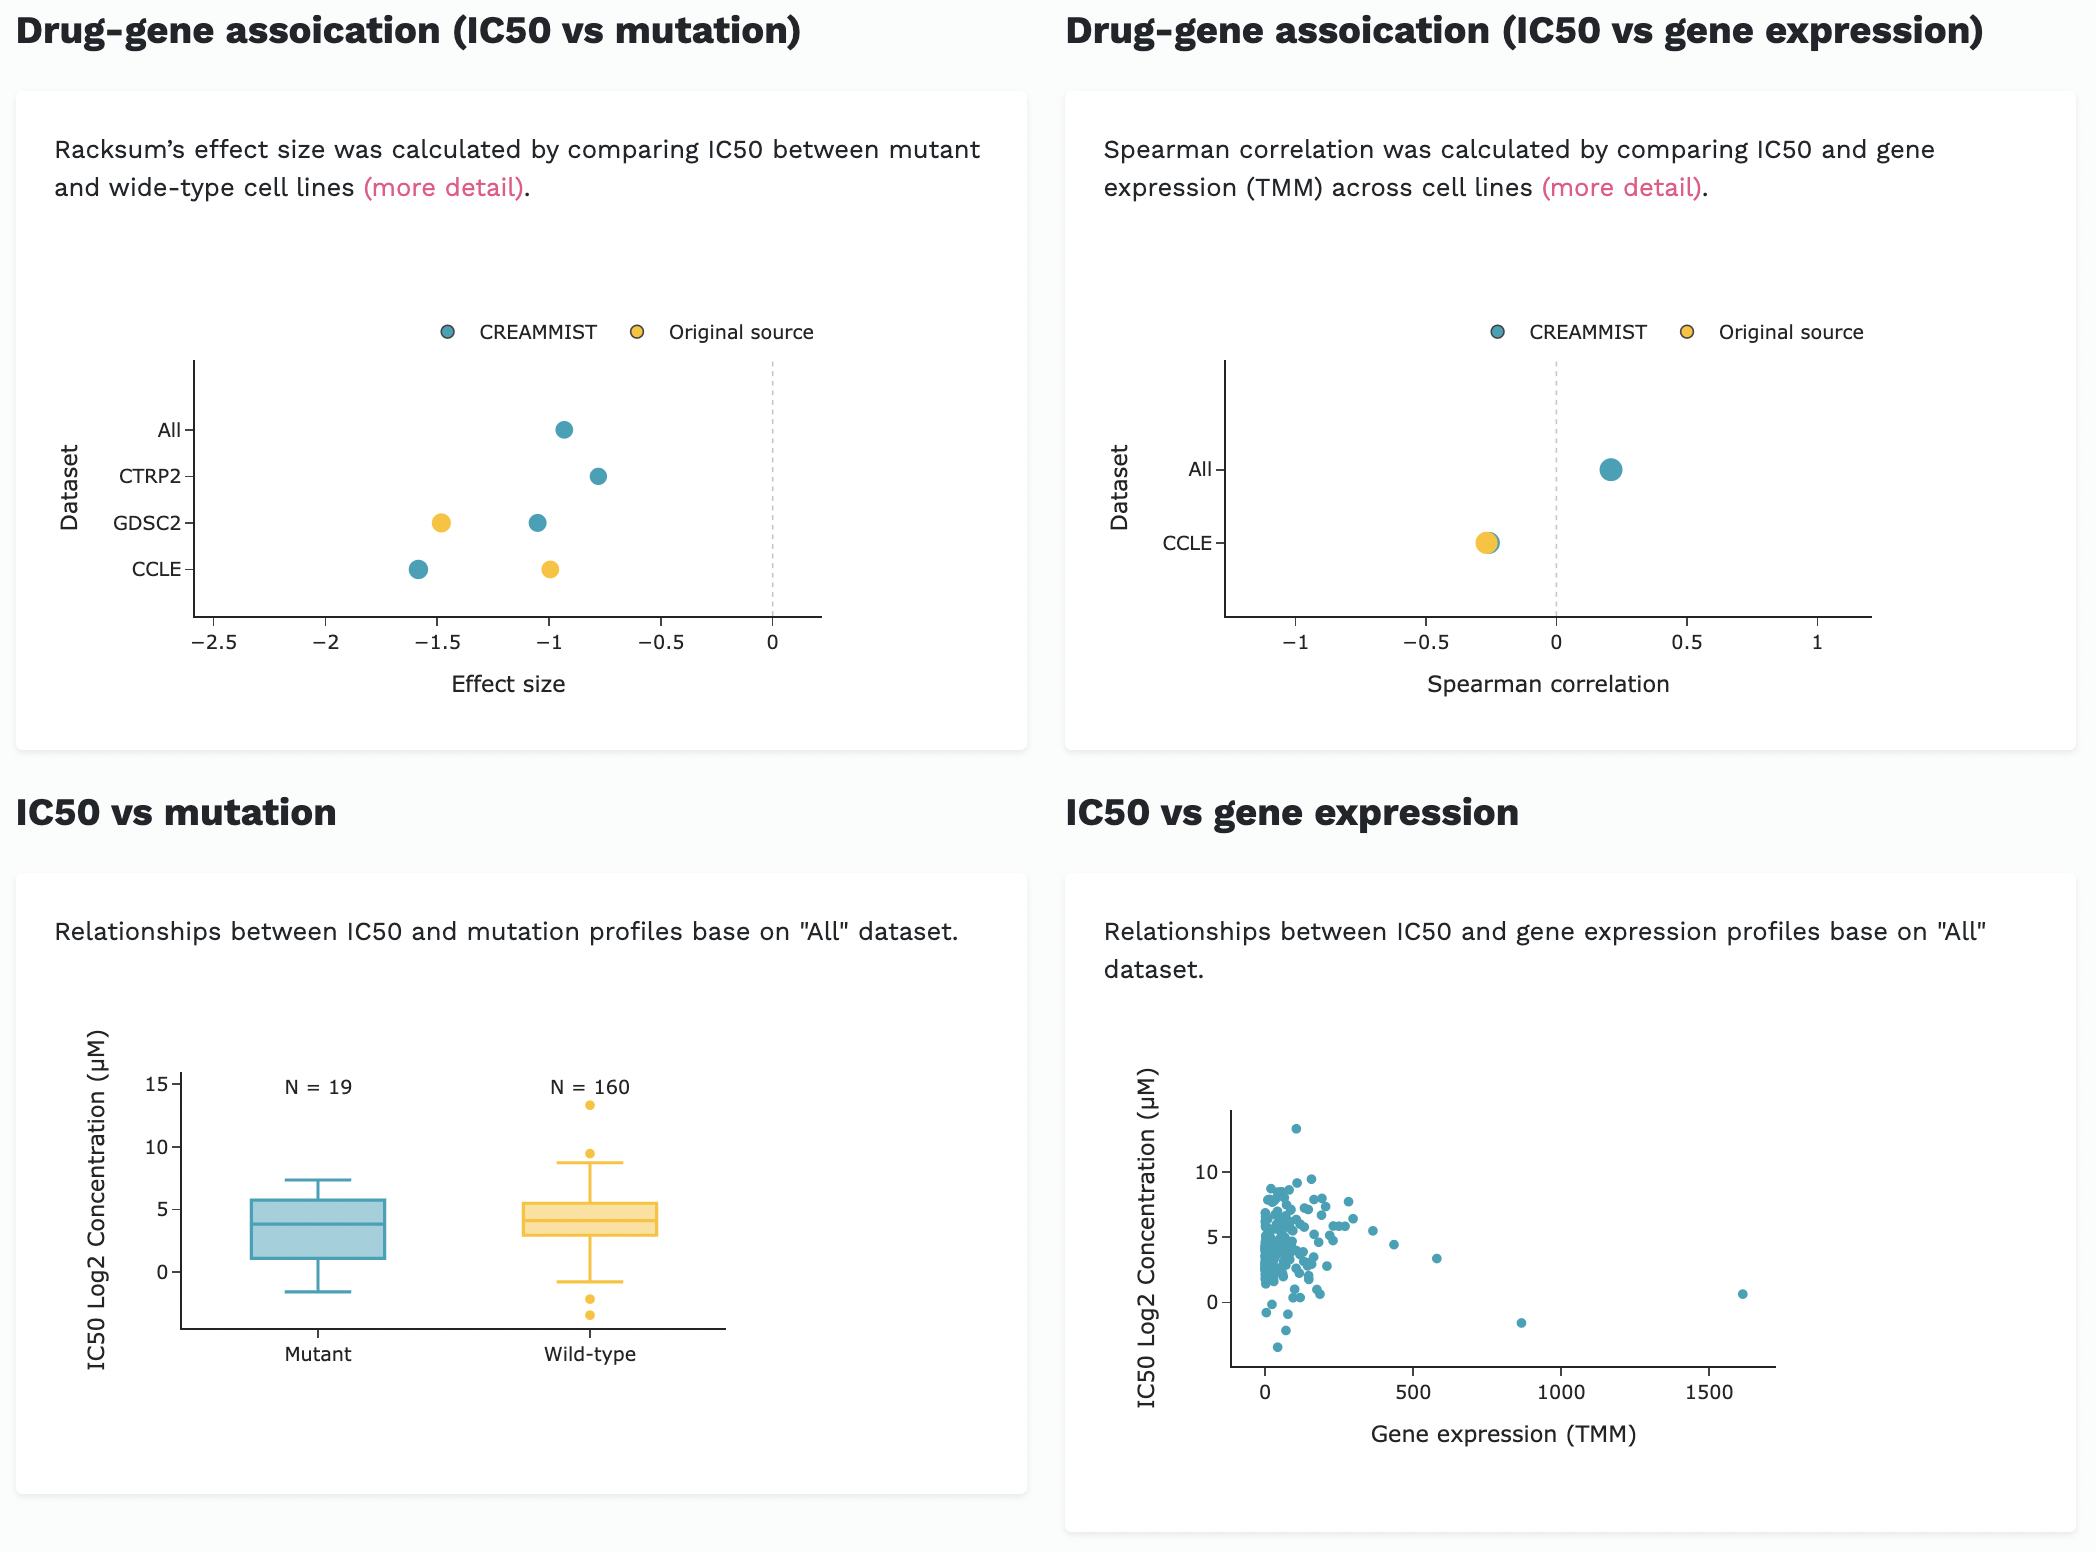
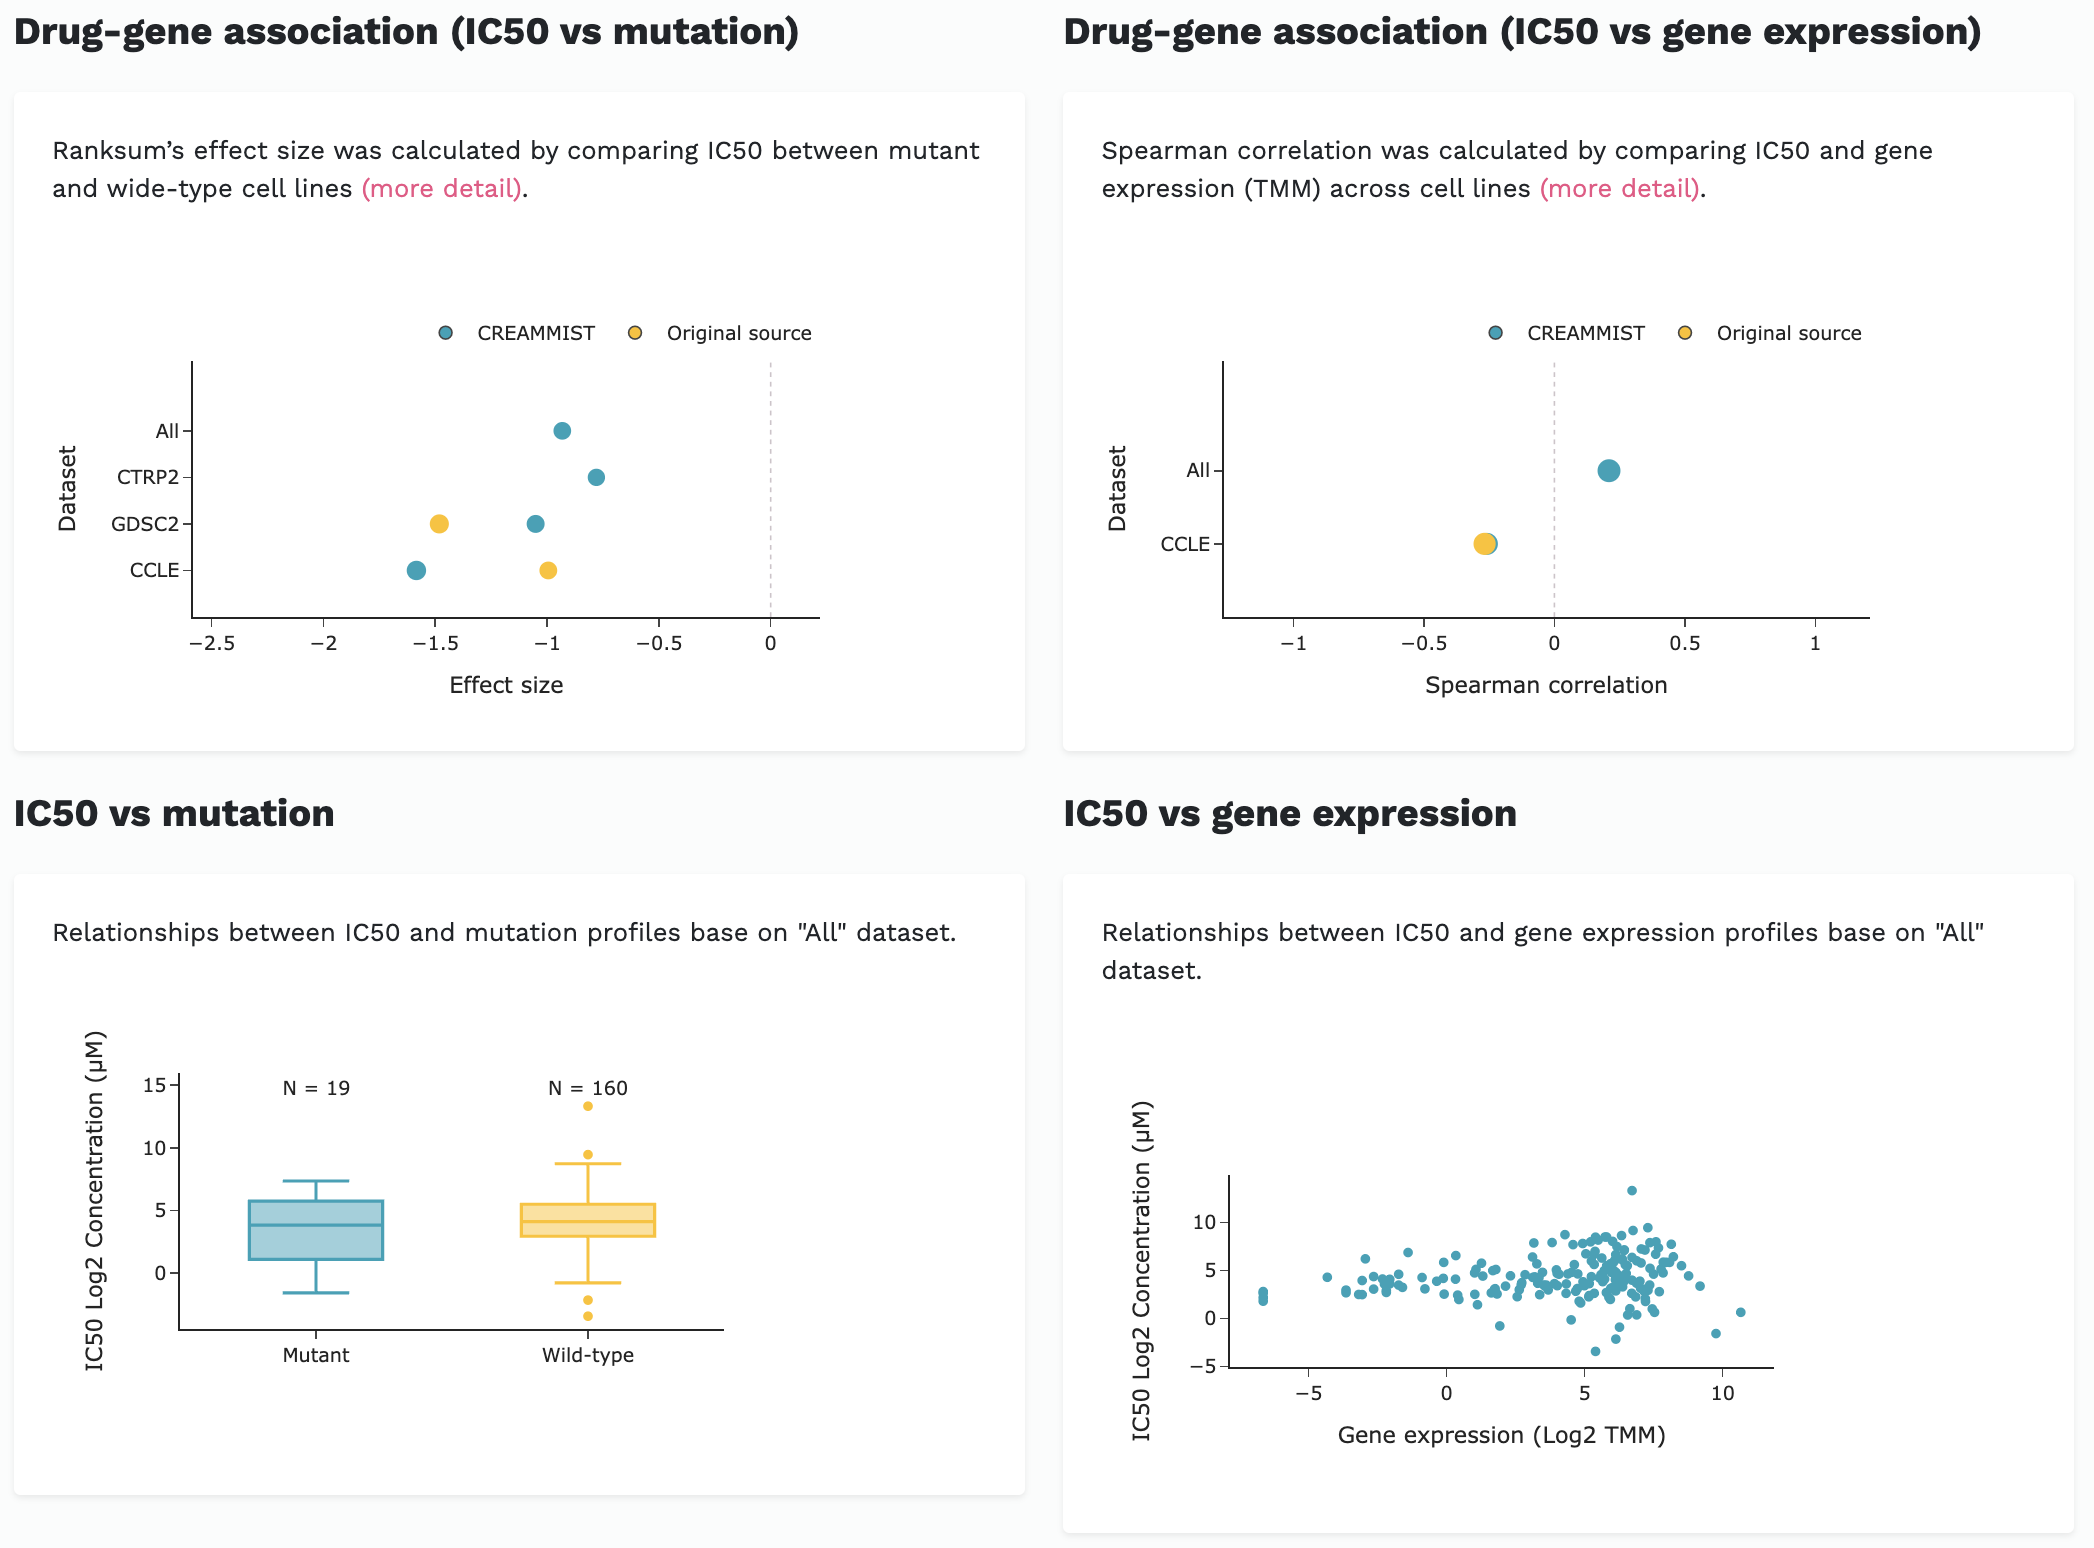
update web

diff --git a/creammist/templates/index.html b/creammist/templates/index.html
@@ -74,7 +74,7 @@
 
 <div class="container pb-5">
     <header class="text-center mb-5">
-        <h5><a class="nav-link" href={{ url_for('doc.information') }}>See the documentation to learn more </a></h5>
+        <h5><a class="nav-link" href={{ url_for('doc.dose_response_curve') }}>See the documentation to learn more </a></h5>
     </header>
 </div>
 </section>

diff --git a/creammist/biomarker/plot_data.py b/creammist/biomarker/plot_data.py
@@ -6,7 +6,7 @@ import plotly.graph_objects as go
 
 
 def plot_mutation(df):
-    print(df)
+    # print(df)
     mut_plot = False
 
     if 'All' in list(df['dataset']):
@@ -70,7 +70,8 @@ def plot_mutation(df):
                                  marker=dict(size=8, color=c, line_width=1),
                                  legendgroup=label, showlegend=True, name=label))
 
-    fig['layout'].update({'template': 'simple_white', 'width': 500, 'height': 300})
+    # fig['layout'].update({'template': 'simple_white', 'width': 500, 'height': 300})
+    fig['layout'].update({'template': 'simple_white'})
     fig.update_layout(
         yaxis=dict(
             tickmode='array',
@@ -170,7 +171,8 @@ def plot_expression(df):
                                  marker=dict(size=8, color=c, line_width=1),
                                  legendgroup=label, showlegend=True, name=label))
 
-    fig['layout'].update({'template': 'simple_white', 'width': 500, 'height': 300})
+    # fig['layout'].update({'template': 'simple_white', 'width': 500, 'height': 300})
+    fig['layout'].update({'template': 'simple_white'})
     fig.update_layout(
         yaxis=dict(
             tickmode='array',
@@ -231,7 +233,8 @@ def plot_box_mutation(temp_df, mut_exp_df):
     fig.update_yaxes(title_text="IC50 Log2 Concentration (\u03bcM)")
     fig.update_xaxes(title_text="")
     fig.update(layout_showlegend=False)
-    fig['layout'].update({'template': 'simple_white', 'width': 500, 'height': 300})
+    # fig['layout'].update({'template': 'simple_white', 'width': 500, 'height': 300})
+    fig['layout'].update({'template': 'simple_white'})
 
     return fig
 
@@ -241,7 +244,7 @@ def plot_scatter_expression(temp_df, mut_exp_df):
 
     mut_exp_df = mut_exp_df.set_index('cellosaurus_id')
     temp_df = temp_df.set_index('cellosaurus_id')
-    # print(temp_df.index)
+
 
     cell_line_list = list(set(mut_exp_df.index).intersection(set(temp_df.index)))
 
@@ -251,13 +254,23 @@ def plot_scatter_expression(temp_df, mut_exp_df):
         if len(cell_line_list) >= 10:
             ic50 = temp_df.loc[cell_line_list, 'beta0_mode'].values
             exp = mut_exp_df.loc[cell_line_list, 'values'].values
-            fig = px.scatter(y=ic50, x=exp)
+            exp_log2 = np.log2(exp+0.01)
+            print(exp)
+            fig = go.Figure()
+            fig.add_trace(go.Scatter(x=exp_log2, y=ic50, mode='markers', line_color="#ffc107", name='',
+                                     customdata=exp,
+                                     hovertemplate='<b>IC50</b> : ' + '%{y:.4f}' +
+                                                   '<br><b>Gene expression (TMM)</b> : ' + '%{customdata:.2f}',
+                                     hoverlabel=dict(bgcolor='#FFF4ED')))
+
+            # fig = px.scatter(y=ic50, x=exp)
 
             fig.update_traces(marker=dict(color='#17a2b8'))
-            fig['layout'].update({'template': 'simple_white', 'width': 500, 'height': 300})
+            # fig['layout'].update({'template': 'simple_white', 'width': 500, 'height': 300})
+            fig['layout'].update({'template': 'simple_white'})
             fig.update_layout(
                 yaxis=dict(title_text="IC50 Log2 Concentration (\u03bcM)"),
-                xaxis=dict(title_text="Gene expression (TMM)")
+                xaxis=dict(title_text="Gene expression (Log2 TMM)")
             )
         else:
             fig = plot_nodata()
@@ -276,7 +289,8 @@ def plot_nodata():
     fig.add_annotation(x=3, y=3, text="No data / less than cut off", showarrow=False,
                        font=dict(size=18, color="#6c757d"))
 
-    fig['layout'].update({'template': 'simple_white', 'width': 500, 'height': 300})
+    # fig['layout'].update({'template': 'simple_white', 'width': 500, 'height': 300})
+    fig['layout'].update({'template': 'simple_white'})
     return fig
 
 

diff --git a/creammist/cell_line/plot_data.py b/creammist/cell_line/plot_data.py
@@ -56,7 +56,8 @@ def plot_distribution_ic50(data_list, m, M):
     fig.update_layout(showlegend=False)
     fig.update_yaxes(rangemode="tozero", visible=False)
     # fig.update_layout(title='IC50 Distribution')
-    fig['layout'].update({'template': 'simple_white', 'width': 300})
+    # fig['layout'].update({'template': 'simple_white', 'width': 300})
+    fig['layout'].update({'template': 'simple_white'})
     fig.update_xaxes(title_text="Log2 Concentration (\u03bcM)")
     fig.update_traces(hoverinfo='none', selector=dict(type="scatter", ))
     fig.update_traces(hovertemplate='<b>Bin-range</b> : ' + '%{x}' + '<br><b>Density</b> : ' + '%{y:.2f}',
@@ -115,7 +116,10 @@ def plot_ic_auc_mode(df, type):
         else:
             fig['data'][0]['x'][i] = f"<a href='https://creammist.mtms.dev/cell_line/view/{df['id'][i]}' target='_self' style='color:#ef5285;'>{fig['data'][0]['x'][i]}</a>"
 
-    fig['layout'].update({'template': 'simple_white', 'width': 550, 'height': 400})
+    # fig['layout'].update({'template': 'simple_white', 'width': 550, 'height': 400})
+    fig['layout'].update({'template': 'simple_white'})
+    # fig.update_layout(autosize=True)
+
     fig.update_xaxes(tickangle=-45)
     fig.update_xaxes(title_text="Drug Name",showline=False,tickcolor='white')
     fig.update_layout(margin=dict(l=20, r=20, t=50, b=20))
@@ -190,7 +194,8 @@ def plot_logistic1(jags, sens, beta0_s, beta1_s, dosage, response, dataset_plot)
                      titlefont_size=18)
     fig.update_yaxes(title_text="Response", range=(-0.27, 1.27), titlefont_size=18)
     # fig.update_layout(title='Dose Response Curve', titlefont_size=20)
-    fig['layout'].update({'template': 'simple_white', 'width': 800, 'height': 500, })
+    # fig['layout'].update({'template': 'simple_white', 'width': 800, 'height': 500, })
+    fig['layout'].update({'template': 'simple_white'})
     fig.update_layout(xaxis = dict(tickfont=dict( size=14)),
                         yaxis = dict(tickfont=dict( size=14))),
     fig.update_layout(margin=dict(l=20, r=20, t=50, b=20))

diff --git a/creammist/cancer_type/plot_data.py b/creammist/cancer_type/plot_data.py
@@ -30,7 +30,7 @@ def plot_ic_auc_mode(df, type):
 
         fig = px.box(df, x='standard_drug_name', y='auc_calculate', category_orders={'standard_drug_name': my_order},
                      color=list(df['color']),color_discrete_sequence=color_list,
-                     custom_data=['standard_drug_name','auc_calculate'], points=False)
+                     custom_data=['standard_drug_name','auc_calculate'],)
         fig.update_traces(hovertemplate = "<b>Drug Name : </b> %{customdata[0]} <br>"
                                           "<b> AUC : </b> %{customdata[1]} %", name='')
         fig.update_yaxes(title_text="AUC (%)")
@@ -39,7 +39,7 @@ def plot_ic_auc_mode(df, type):
     elif type == 'ic50_mode':
         fig = px.box(df, x='standard_drug_name', y='ic50_mode', category_orders={'standard_drug_name': my_order},
                      color=list(df['color']),color_discrete_sequence=color_list,
-                     custom_data=['standard_drug_name','ic50_mode'])
+                     custom_data=['standard_drug_name','ic50_mode'],)
         fig.update_traces(hovertemplate = "<b>Drug Name : </b> %{customdata[0]} <br>"
                                           "<b> IC50 : </b> %{customdata[1]}", name='')
         fig.update_yaxes(title_text="IC50 Log2 Concentration (\u03bcM)")
@@ -77,7 +77,9 @@ def plot_ic_auc_mode(df, type):
     fig.update(layout_showlegend=False)
     fig.update_layout(layout)
     fig.update_layout(hoverlabel_bgcolor='#FFF4ED')
-    fig['layout'].update({'template': 'simple_white', 'width': 550, 'height': 400})
+    # fig['layout'].update({'template': 'simple_white', 'width': 550, 'height': 400})
+    # fig.update_layout(autosize=True)
+    fig['layout'].update({'template': 'simple_white'})
     fig.update_xaxes(title_text="Drug Name",showline=False,tickcolor='white')
 
     return fig
